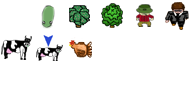
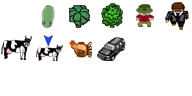
fix tile collision, add level 3 and paths

Changed region(s): [[0.5, 0.375, 0.6562, 0.6562]]

diff --git a/hci/game.py b/hci/game.py
@@ -168,7 +168,7 @@ cdata = [
     7: (lambda g, t, v: sprite.CollectableCow(g, t, v), None),
     8: (lambda g, t, v: sprite.Chicken(g, t, v), None),
     },
-    
+ 
     {
     1: (lambda g, t, v: sprite.Player(g, t, v),  None),
     2: (lambda g, t, v: sprite.Bush(g, t, v),    None),
@@ -183,6 +183,7 @@ cdata = [
 
 tdata = {
     0x02: ('fbi,farmer,player', tile_block, {'top': 1, 'bottom': 1, 'left': 1, 'right': 1}),
+    0x04: ('fbi,farmer,player', tile_block, {'top': 1, 'bottom': 1, 'left': 1, 'right': 1}),
     0x05: ('fbi,farmer,player', tile_block, {'top': 1, 'bottom': 1, 'left': 1, 'right': 1}),
     0x06: ('fbi,farmer,player', tile_block, {'top': 1, 'bottom': 1, 'left': 1, 'right': 1}),
     0x07: ('fbi,farmer,player', tile_block, {'top': 1, 'bottom': 1, 'left': 1, 'right': 1}),
@@ -190,10 +191,24 @@ tdata = {
     0x09: ('fbi,farmer,player', tile_block, {'top': 1, 'bottom': 1, 'left': 1, 'right': 1}),
     0x0A: ('fbi,farmer,player', tile_block, {'top': 1, 'bottom': 1, 'left': 1, 'right': 1}),
     0x0B: ('fbi,farmer,player', tile_block, {'top': 1, 'bottom': 1, 'left': 1, 'right': 1}),
+    0x0C: ('fbi,farmer,player', tile_block, {'top': 1, 'bottom': 1, 'left': 1, 'right': 1}),
+    0x0D: ('fbi,farmer,player', tile_block, {'top': 1, 'bottom': 1, 'left': 1, 'right': 1}),
+    0x0E: ('fbi,farmer,player', tile_block, {'top': 1, 'bottom': 1, 'left': 1, 'right': 1}),
+    0x0F: ('fbi,farmer,player', tile_block, {'top': 1, 'bottom': 1, 'left': 1, 'right': 1}),
+    0x10: ('fbi,farmer,player', tile_block, {'top': 1, 'bottom': 1, 'left': 1, 'right': 1}),
+    0x11: ('fbi,farmer,player', tile_block, {'top': 1, 'bottom': 1, 'left': 1, 'right': 1}),
+    0x12: ('fbi,farmer,player', tile_block, {'top': 1, 'bottom': 1, 'left': 1, 'right': 1}),
+    0x13: ('fbi,farmer,player', tile_block, {'top': 1, 'bottom': 1, 'left': 1, 'right': 1}),
+    0x14: ('fbi,farmer,player', tile_block, {'top': 1, 'bottom': 1, 'left': 1, 'right': 1}),
+    0x15: ('fbi,farmer,player', tile_block, {'top': 1, 'bottom': 1, 'left': 1, 'right': 1}),
+    0x16: ('fbi,farmer,player', tile_block, {'top': 1, 'bottom': 1, 'left': 1, 'right': 1}),
+    0x17: ('fbi,farmer,player', tile_block, {'top': 1, 'bottom': 1, 'left': 1, 'right': 1}),
+    0x18: ('fbi,farmer,player', tile_block, {'top': 1, 'bottom': 1, 'left': 1, 'right': 1}),
+    0x19: ('fbi,farmer,player', tile_block, {'top': 1, 'bottom': 1, 'left': 1, 'right': 1}),
     }
 
-map_files  = ['level1.tga', 'level2.tga','level4.tga']
-music_files = ['Track01.ogg', 'Track02.ogg','Track01.ogg']
+map_files  = ['level1.tga', 'level2.tga', 'level3.tga', 'level4.tga']
+music_files = ['Track01.ogg', 'Track02.ogg', 'Track01.ogg', 'Track02.ogg']
 
 def load_level(lvl_num):
     if debug:
